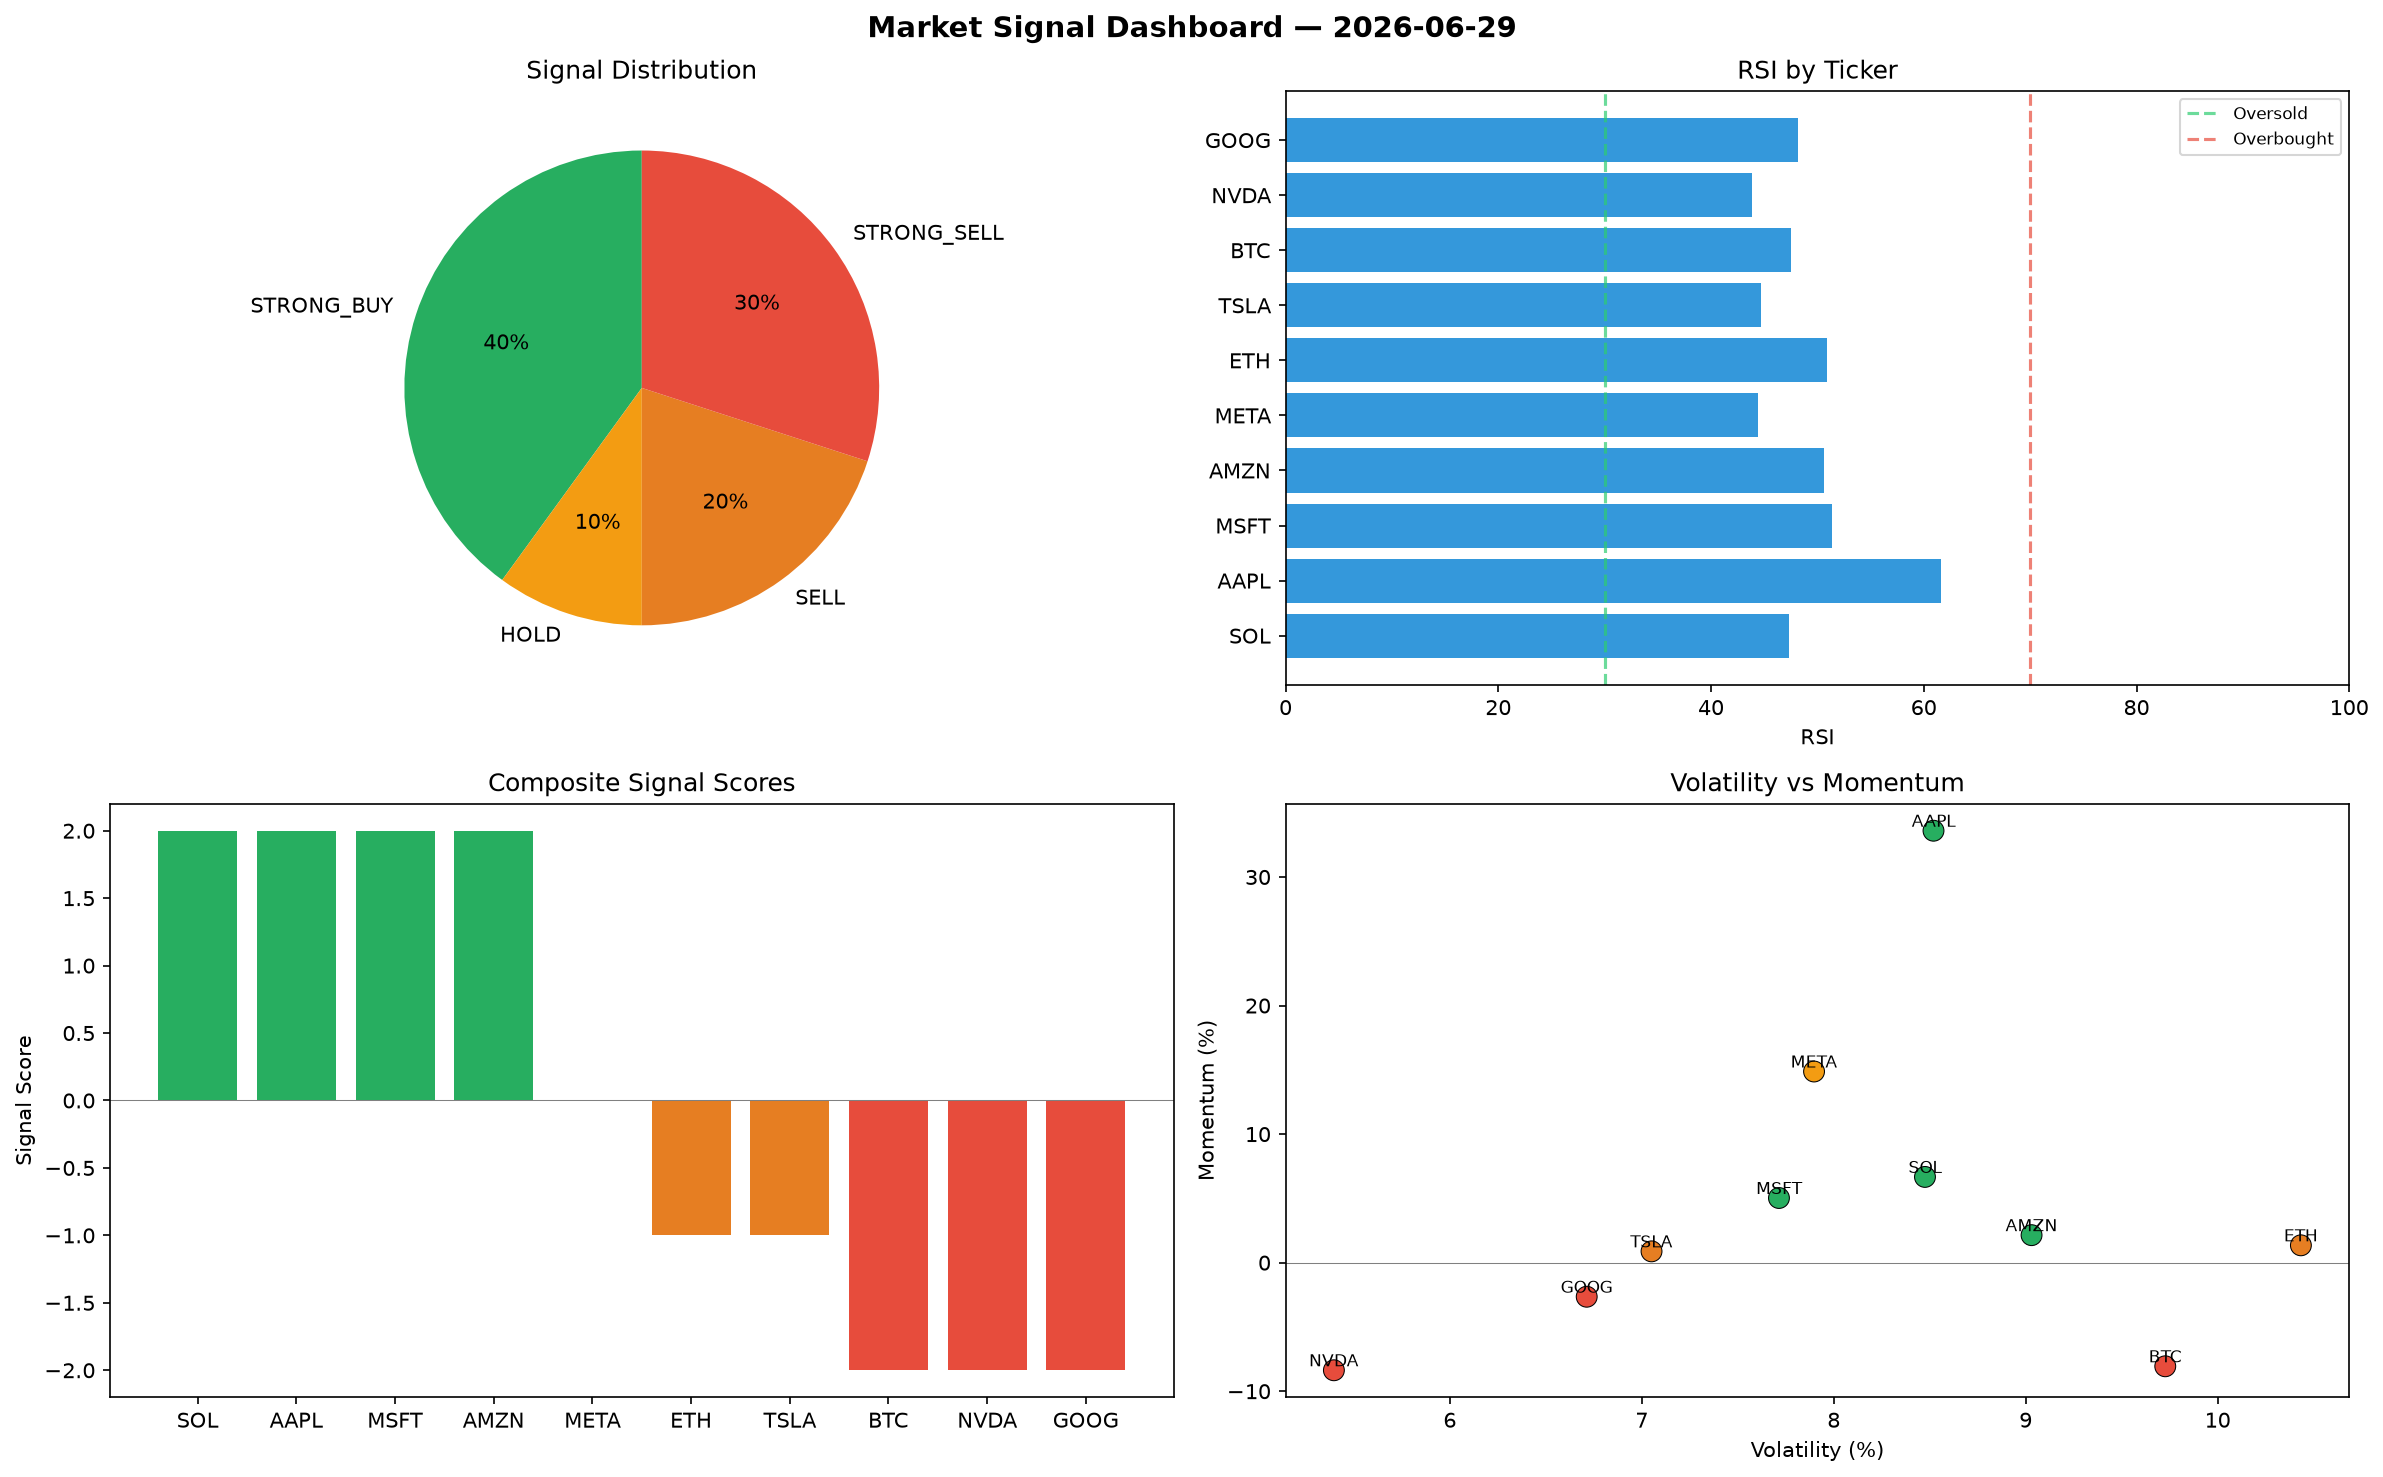
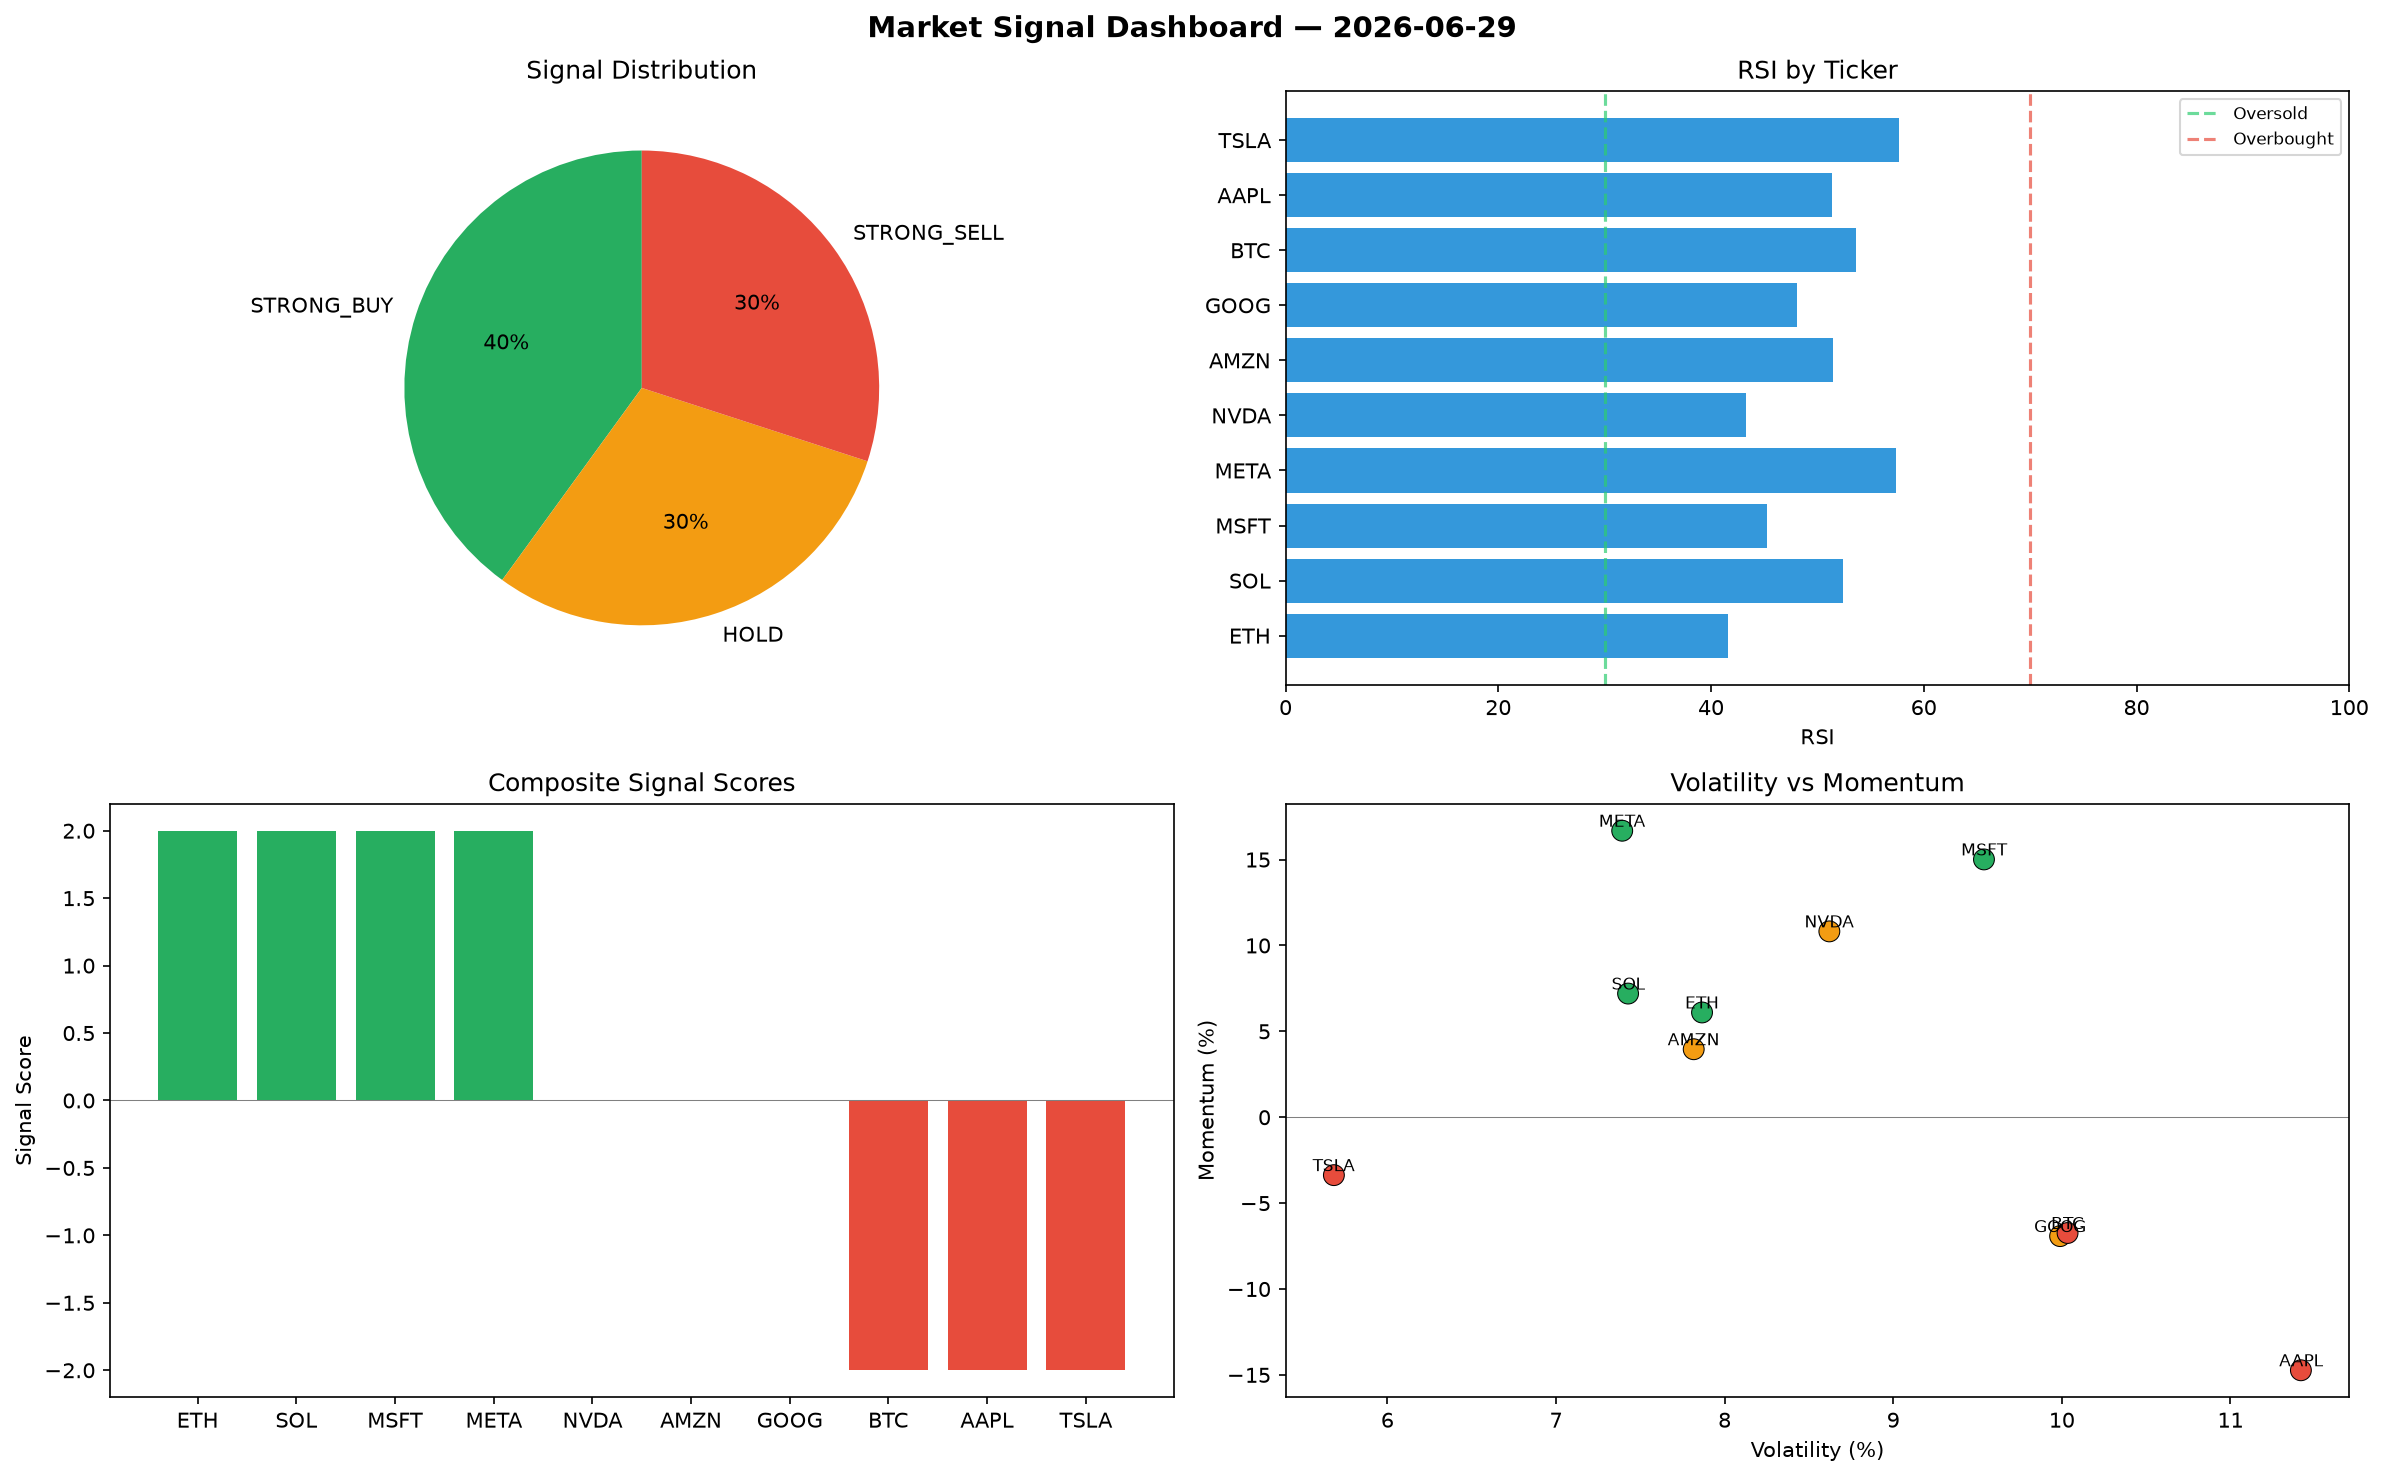
automated-bots: market signals 2026-06-29T12:44

diff --git a/logs/2026-06-29.md b/logs/2026-06-29.md
@@ -1,6 +1,6 @@
 # Market Signal Report — 2026-06-29
 
-**Run ID:** `a9a9014276` | **Buy:** 4 | **Sell:** 5 | **Hold:** 1
+**Run ID:** `ead1063c56` | **Buy:** 4 | **Sell:** 3 | **Hold:** 3
 
 ![Dashboard](2026-06-29_dashboard.png)
 
@@ -8,28 +8,28 @@
 
 | Ticker | Price | Signal | Score | RSI | Momentum | Confidence |
 |--------|-------|--------|-------|-----|----------|------------|
-| SOL | $920.85 | **STRONG_BUY** | 2 | 47.33 | 0.0667 | 0.5 |
-| AAPL | $4246.5 | **STRONG_BUY** | 2 | 61.59 | 0.336 | 0.5 |
-| MSFT | $3778.27 | **STRONG_BUY** | 2 | 51.36 | 0.0503 | 0.5 |
-| AMZN | $3427.04 | **STRONG_BUY** | 2 | 50.62 | 0.0214 | 0.5 |
-| META | $3424.95 | **HOLD** | 0 | 44.45 | 0.1487 | 0.0 |
-| ETH | $814.09 | **SELL** | -1 | 50.9 | 0.0135 | 0.25 |
-| TSLA | $806.45 | **SELL** | -1 | 44.72 | 0.0088 | 0.25 |
-| BTC | $748.28 | **STRONG_SELL** | -2 | 47.5 | -0.0806 | 0.5 |
-| NVDA | $866.62 | **STRONG_SELL** | -2 | 43.81 | -0.0837 | 0.5 |
-| GOOG | $734.82 | **STRONG_SELL** | -2 | 48.19 | -0.0265 | 0.5 |
+| ETH | $4574.05 | **STRONG_BUY** | 2 | 41.57 | 0.061 | 0.5 |
+| SOL | $4640.66 | **STRONG_BUY** | 2 | 52.41 | 0.072 | 0.5 |
+| MSFT | $5292.86 | **STRONG_BUY** | 2 | 45.27 | 0.1501 | 0.5 |
+| META | $4184.0 | **STRONG_BUY** | 2 | 57.38 | 0.1668 | 0.5 |
+| NVDA | $1560.17 | **HOLD** | 0 | 43.32 | 0.1082 | 0.0 |
+| AMZN | $2151.65 | **HOLD** | 0 | 51.44 | 0.0396 | 0.0 |
+| GOOG | $964.16 | **HOLD** | 0 | 48.07 | -0.0692 | 0.0 |
+| BTC | $4487.42 | **STRONG_SELL** | -2 | 53.67 | -0.0674 | 0.5 |
+| AAPL | $2922.19 | **STRONG_SELL** | -2 | 51.34 | -0.1473 | 0.5 |
+| TSLA | $889.5 | **STRONG_SELL** | -2 | 57.68 | -0.0337 | 0.5 |
 
 ## Delta vs Yesterday
 
 | Ticker | Today | Yesterday | Price Change | Signal Changed |
 |--------|-------|-----------|-------------|----------------|
-| SOL | STRONG_BUY | HOLD | 📉 -40.08% | ⚠ YES |
-| AAPL | STRONG_BUY | HOLD | 📈 981.91% | ⚠ YES |
-| MSFT | STRONG_BUY | STRONG_SELL | 📈 74.21% | ⚠ YES |
-| AMZN | STRONG_BUY | STRONG_SELL | 📈 49.0% | ⚠ YES |
-| META | HOLD | STRONG_SELL | 📈 63.11% | ⚠ YES |
-| ETH | SELL | HOLD | 📉 -79.65% | ⚠ YES |
-| TSLA | SELL | STRONG_SELL | 📉 -37.84% | ⚠ YES |
-| BTC | STRONG_SELL | BUY | 📉 -52.78% | ⚠ YES |
-| NVDA | STRONG_SELL | STRONG_SELL | 📉 -75.31% | — |
-| GOOG | STRONG_SELL | BUY | 📉 -78.47% | ⚠ YES |
+| ETH | STRONG_BUY | HOLD | 📈 14.34% | ⚠ YES |
+| SOL | STRONG_BUY | HOLD | 📈 201.96% | ⚠ YES |
+| MSFT | STRONG_BUY | STRONG_SELL | 📈 144.05% | ⚠ YES |
+| META | STRONG_BUY | STRONG_SELL | 📈 99.25% | ⚠ YES |
+| NVDA | HOLD | STRONG_SELL | 📉 -55.56% | ⚠ YES |
+| AMZN | HOLD | STRONG_SELL | 📉 -6.45% | ⚠ YES |
+| GOOG | HOLD | BUY | 📉 -71.75% | ⚠ YES |
+| BTC | STRONG_SELL | BUY | 📈 183.19% | ⚠ YES |
+| AAPL | STRONG_SELL | HOLD | 📈 644.51% | ⚠ YES |
+| TSLA | STRONG_SELL | STRONG_SELL | 📉 -31.44% | — |
